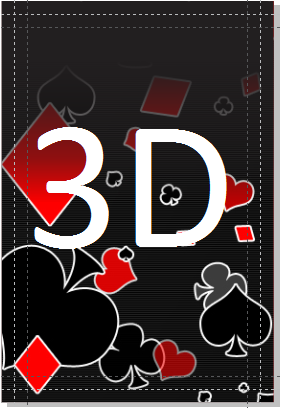
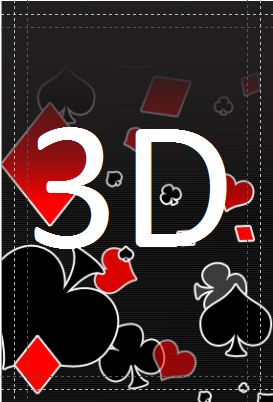
added the card 3D.

diff --git a/www/pages/home.html b/www/pages/home.html
@@ -1,0 +1,43 @@
+	<ion-side-menus>
+		<ion-side-menu-content>
+			<ion-header-bar align-title="center" class="bar-dark">
+			    <div class="buttons">
+			    	<button class="button icon button-clear ion-navicon-round" ng-click="toggleLeft()"></button>
+			    </div>
+			    <div class="title">Infra Scrum</div>
+			</ion-header-bar>
+			<ion-content>
+				<div class="row">
+					<div class="col"ng-repeat="hour in hours" ng-click="getFullPage('{{hour}}')">
+				  		<img src="img/{{hour}}.png" width="100%" height="auto">
+					</div>		
+				</div>
+
+				<div class="row">
+					<div class="col"ng-repeat="day in days" ng-click="getFullPage('{{day}}')">
+				  		<img src="img/{{day}}.png" width="100%" height="auto">
+					</div>		
+				</div>
+
+				<div class="row">
+					<div class="col"ng-repeat="month in months" ng-click="getFullPage('{{month}}')">
+				  		<img src="img/{{month}}.png" width="100%" height="auto">
+					</div>		
+				</div>
+
+				<div class="row">
+					<div class="col"ng-repeat="other in others" ng-click="getFullPage('{{other}}')">
+				  		<img src="img/{{other}}.png" width="100%" height="auto">
+					</div>		
+				</div>	
+			</ion-content>
+
+			<ion-footer-bar align-title="center" class="bar-dark">
+			   <h1 class="title">Scrum Pocker</h1>
+			</ion-footer-bar>
+
+		</ion-side-menu-content>
+		<ion-side-menu side="left">
+			<ion-toggle toggle-class="toggle-calm" ng-model="tapOption" ng-click="changeTapOption(this)">Tap to Show</ion-toggle>
+		</ion-side-menu>
+	</ion-side-menus>

diff --git a/www/js/app.js b/www/js/app.js
@@ -1,10 +1,4 @@
-// Ionic Starter App
-
-// angular.module is a global place for creating, registering and retrieving Angular modules
-// 'starter' is the name of this angular module example (also set in a <body> attribute in index.html)
-// the 2nd parameter is an array of 'requires'
-
-var app = angular.module('infracommerceApp', ['ionic'])
+var app = angular.module('infraScrumApp', ['ionic'])
 
 .run(function($ionicPlatform) {
   $ionicPlatform.ready(function() {
@@ -24,13 +18,13 @@ app.config(function($stateProvider) {
 
   .state('home', {
       url: '',
-      controller: 'infracommerceController',
-      templateUrl: 'templates/home.html'      
+      controller: 'homeController',
+      templateUrl: 'pages/home.html'      
     })
 	  .state('full', {
-	    url: '/full:choice',
-	    controller: 'infracommerceController',
-      templateUrl: 'templates/full.html'
+	    url: '/full:choice?tapOption',
+	    controller: 'fullController',
+      templateUrl: 'pages/full.html'
 
 	  });
 });

diff --git a/www/js/fullController.js b/www/js/fullController.js
@@ -1,0 +1,33 @@
+app.controller('fullController', function ($rootScope, $scope, $state, $stateParams, $window, $ionicSideMenuDelegate) {
+  
+    
+	$scope.init = function(){
+		$scope.imgHeight = $window.innerHeight;
+	    $scope.imgWidth = $window.innerWidth;
+
+		$scope.choice = $stateParams.choice;
+   		
+   		if($stateParams.tapOption == "true"){
+   			$scope.showBackCard = true;
+   			$scope.showOption = false;
+   		}else{
+   			$scope.showBackCard = false;
+   			$scope.showOption = true;
+   		}
+
+    }
+    $scope.init();
+
+	$scope.showFullImage = function(){
+		$scope.showBackCard = false;
+   		$scope.showOption = true;
+    }
+
+   	$scope.getInitialPage = function(){
+    	$state.go("home");
+    }
+
+	$scope.toggleLeft =  function(){
+		$ionicSideMenuDelegate.toggleLeft();
+	}
+});

diff --git a/www/pages/full.html b/www/pages/full.html
@@ -1,0 +1,17 @@
+<ion-header-bar align-title="center" class="bar-dark">
+    <div class="title">Infra Scrum</div>
+</ion-header-bar>
+<ion-content resize>	
+	<div class="row">
+		<!-- <div style="position: absolute; top:45%; bottom:30%; left:5%; right:5%; color: white; text-align: center; font-size:{{imgWidth -200}}px; font-weight: '{{imgWidth}}px'">
+		 	1D
+		 </div> -->		
+	
+		<img src="img/carta.png" width="{{imgWidth}}px" height="{{imgHeight - 100}}px" ng-if="showBackCard" ng-click="showFullImage()">		
+		<img src="img/{{choice}}.png" width="{{imgWidth}}px" height="{{imgHeight - 100}}px" ng-click="getInitialPage()" ng-if="showOption">
+					   		
+	</div>
+</ion-content>
+<ion-footer-bar align-title="center" class="bar-dark">
+   <h1 class="title">Scrum Pocker</h1>
+</ion-footer-bar>

diff --git a/www/js/homeController.js b/www/js/homeController.js
@@ -1,0 +1,19 @@
+app.controller('homeController', function ($scope, $state, $stateParams, $window, $ionicSideMenuDelegate) {
+    
+	$scope.hours = ["1H","2H","4H","8H"];
+	$scope.days = ["2D","3D","5D","10D"];
+	$scope.months = ["1M","2M","3M","6M"];
+	$scope.others = ["cafe","vamu"];
+
+    $scope.getFullPage = function(choiceText){    	
+    	$state.go("full",{"choice":choiceText, "tapOption":$scope.tapOption});
+    }
+
+	$scope.toggleLeft =  function(){
+		$ionicSideMenuDelegate.toggleLeft();
+	}
+
+	$scope.changeTapOption =  function(opt){			
+		$scope.tapOption = opt.tapOption;
+	}
+});

diff --git a/www/index.html b/www/index.html
@@ -22,10 +22,11 @@
     <script src="js/app.js"></script>
     
     <!-- your controller's js -->
-    <script src="js/infracommerceController.js"></script>
+    <script src="js/homeController.js"></script>
+    <script src="js/fullController.js"></script>
   
   </head>
-  <body ng-app="infracommerceApp">
+  <body ng-app="infraScrumApp">
     <ion-nav-view></ion-nav-view>
   </body>
 </html>
